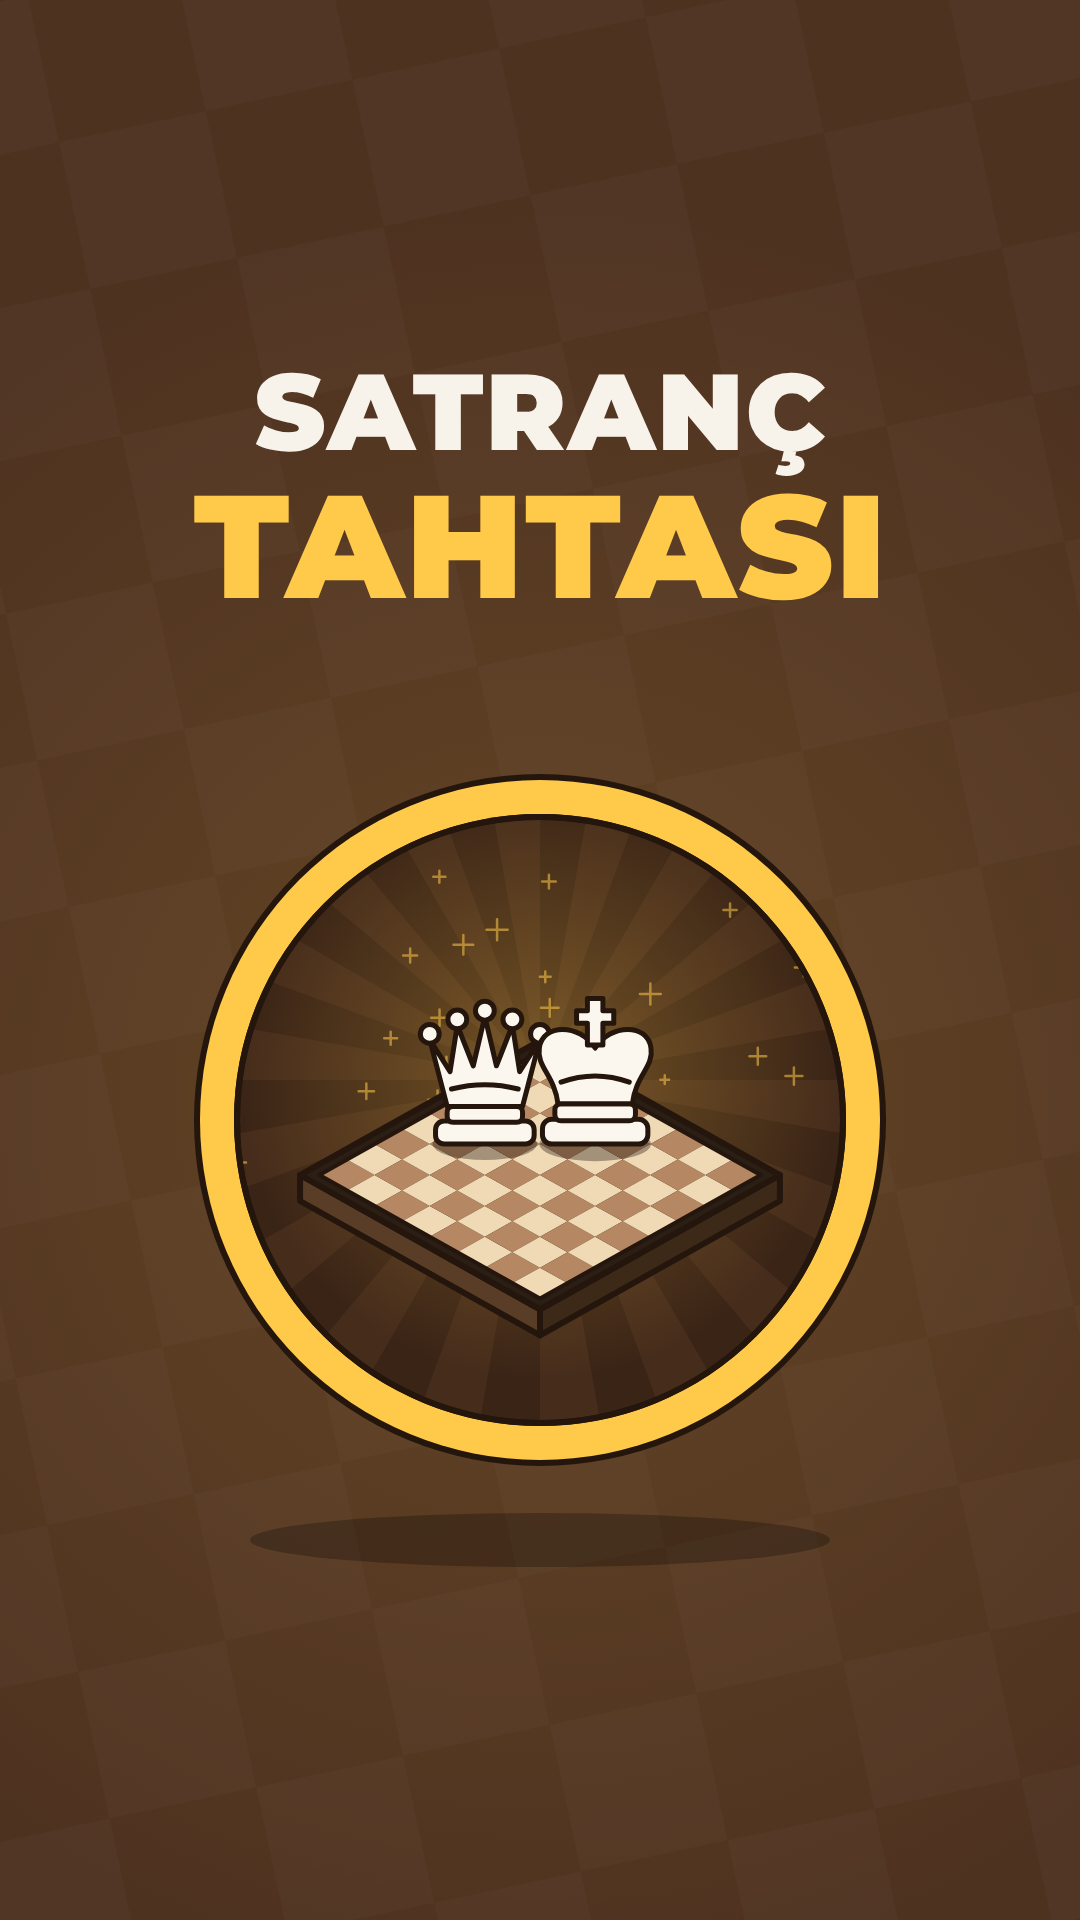
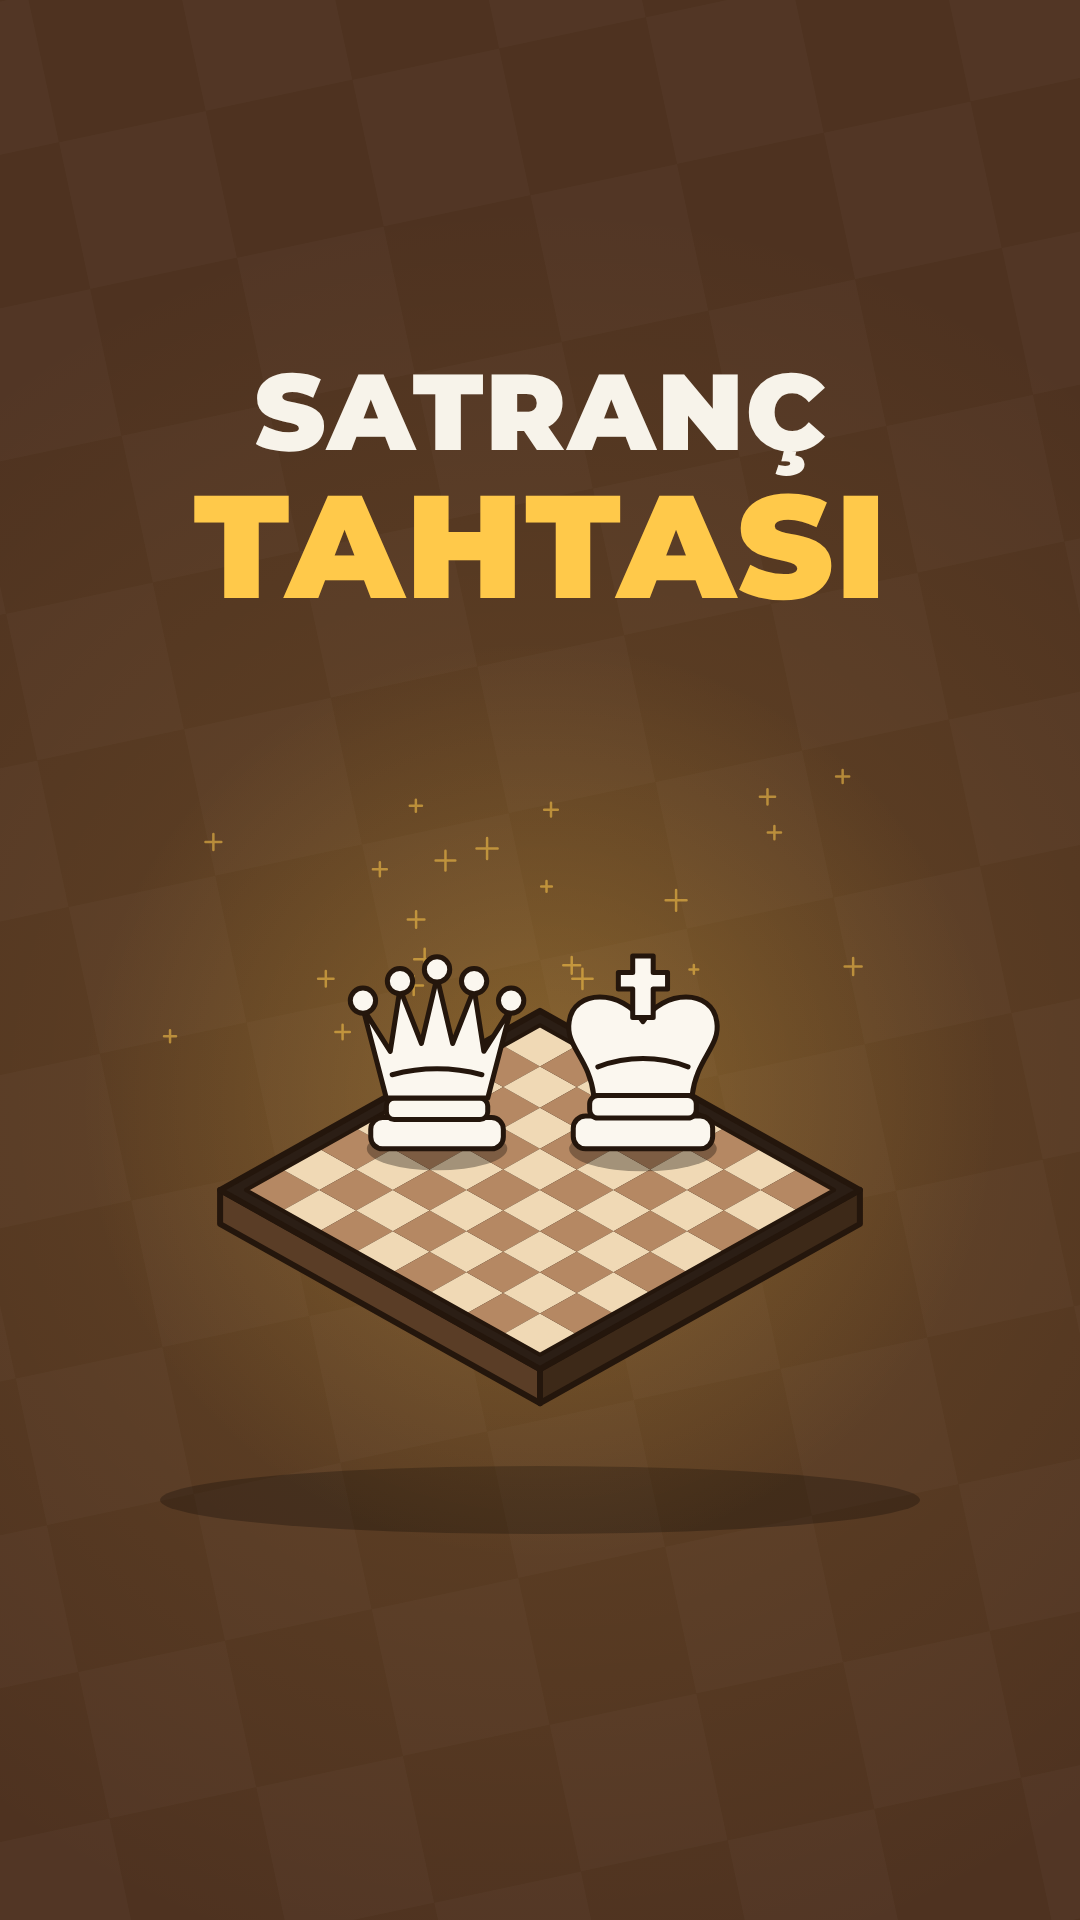
Satranç cover: free-standing board, no medallion
Claude-Session: https://claude.ai/code/session_01BVFJ2P3WWWC1NSuwcSP133

Changed region(s): [[0.1528, 0.4062, 0.825, 0.8125]]

diff --git a/satranc/cover/cover.html b/satranc/cover/cover.html
@@ -9,8 +9,8 @@
 <body>
 <canvas id="c" width="1080" height="1920"></canvas>
 <script>
-// 9:16 cover in a flat, outlined illustration style: title block, gold medallion with a
-// teal sunburst, and an isometric chessboard with a king and a queen in the middle.
+// 9:16 cover in a flat, outlined illustration style: title block over a free-standing
+// isometric chessboard with a king and a queen, in the video's colours on the logo's brown.
 (async function () {
   await Promise.all(['500 40px Montserrat', '700 40px Montserrat', '800 40px Montserrat', '900 40px Montserrat']
     .map(f => document.fonts.load(f, 'SATRANÇ TAHTASI İ')));
@@ -18,7 +18,7 @@
   // palette taken from the video (anim/scene.js)
   // background = the logo's brown (#4E3220); text, ring, board and pieces keep the video's colours
   const C = { bg: '#4E3220', white: '#F7F3EA', gold: '#FFC94A', ink: '#24160c',
-    disc: '#3a2416', ray: '#462c1b', light: '#F0D9B5', dark: '#B58863', frame: '#2b1e15', side: '#5a3d26', sideDark: '#3d2918' };
+    light: '#F0D9B5', dark: '#B58863', frame: '#2b1e15', side: '#5a3d26', sideDark: '#3d2918' };
   const ctx = document.getElementById('c').getContext('2d');
   let seed = 7;
   const rnd = () => ((seed = (seed * 16807) % 2147483647) / 2147483647);
@@ -46,40 +46,23 @@
   text('SATRANÇ', W / 2, 450, fit('SATRANÇ', 900, 108, 760, 2), 900, C.white, 2);
   text('TAHTASI', W / 2, 598, fit('TAHTASI', 900, 146, 820, 2), 900, C.gold, 2);
 
-  // medallion
-  const MX = W / 2, MY = 1120, R = 340, RI = 300;
+  // free-standing board: soft ground shadow, warm glow and a few gold sparkles around it
+  const MX = W / 2, MY = 1120;
   ctx.fillStyle = 'rgba(0,0,0,0.25)';
-  ctx.beginPath(); ctx.ellipse(MX, 1540, 290, 27, 0, 0, Math.PI * 2); ctx.fill();
-  ctx.beginPath(); ctx.arc(MX, MY, R + 6, 0, Math.PI * 2); ctx.fillStyle = C.ink; ctx.fill();
-  ctx.beginPath(); ctx.arc(MX, MY, R, 0, Math.PI * 2); ctx.fillStyle = C.gold; ctx.fill();
-  ctx.beginPath(); ctx.arc(MX, MY, RI + 6, 0, Math.PI * 2); ctx.fillStyle = C.ink; ctx.fill();
-
-  ctx.save();
-  ctx.beginPath(); ctx.arc(MX, MY, RI, 0, Math.PI * 2); ctx.clip();
-  ctx.fillStyle = C.disc; ctx.fillRect(MX - RI, MY - RI, 2 * RI, 2 * RI);
-  ctx.fillStyle = C.ray;
-  for (let i = 0; i < 18; i++) {
-    const a0 = (i / 18) * Math.PI * 2, a1 = a0 + Math.PI / 18;
-    ctx.beginPath(); ctx.moveTo(MX, MY - 40);
-    ctx.lineTo(MX + Math.cos(a0) * 600, MY - 40 + Math.sin(a0) * 600);
-    ctx.lineTo(MX + Math.cos(a1) * 600, MY - 40 + Math.sin(a1) * 600); ctx.closePath(); ctx.fill();
-  }
-  // small sparkles in place of the reference's rain
-  // warm glow behind the board, like the video's centre light
-  const dg = ctx.createRadialGradient(MX, MY - 40, 20, MX, MY - 40, RI);
-  dg.addColorStop(0, 'rgba(255,201,74,0.28)'); dg.addColorStop(1, 'rgba(255,201,74,0)');
-  ctx.fillStyle = dg; ctx.fillRect(MX - RI, MY - RI, 2 * RI, 2 * RI);
-  ctx.strokeStyle = 'rgba(255,201,74,0.55)'; ctx.lineCap = 'round';
-  for (let i = 0; i < 26; i++) {
-    const x = MX - RI + rnd() * 2 * RI, y = MY - RI + rnd() * 2 * RI * 0.62, s = 4 + rnd() * 7;
-    ctx.lineWidth = 2.5;
+  ctx.beginPath(); ctx.ellipse(MX, 1500, 380, 34, 0, 0, Math.PI * 2); ctx.fill();
+  const dg = ctx.createRadialGradient(MX, MY - 20, 20, MX, MY - 20, 460);
+  dg.addColorStop(0, 'rgba(255,201,74,0.22)'); dg.addColorStop(1, 'rgba(255,201,74,0)');
+  ctx.fillStyle = dg; ctx.fillRect(0, MY - 480, W, 960);
+  ctx.strokeStyle = 'rgba(255,201,74,0.55)'; ctx.lineCap = 'round'; ctx.lineWidth = 2.5;
+  for (let i = 0; i < 22; i++) {
+    const x = 170 + rnd() * 740, y = 760 + rnd() * 300, s = 4 + rnd() * 7;
     ctx.beginPath(); ctx.moveTo(x - s, y); ctx.lineTo(x + s, y); ctx.moveTo(x, y - s); ctx.lineTo(x, y + s); ctx.stroke();
   }
 
   // isometric board: top face at (BXc, BYc); thickness drawn as two side faces
-  const BXc = MX, BYc = MY + 55, S = 39, N = 8, SQ = 0.56;
+  const BXc = MX, BYc = MY + 70, S = 52, N = 8, SQ = 0.56;
   const iso = (u, v) => [BXc + (u - v) * S * Math.SQRT1_2, BYc + (u + v) * S * Math.SQRT1_2 * SQ];
-  const half = N / 2 + 0.35, TH = 26;
+  const half = N / 2 + 0.35, TH = 34;
   const P = [iso(-half, -half), iso(half, -half), iso(half, half), iso(-half, half)];
   const poly = (pts, fill) => {
     ctx.beginPath(); pts.forEach(([x, y], i) => (i ? ctx.lineTo(x, y) : ctx.moveTo(x, y))); ctx.closePath();
@@ -130,13 +113,10 @@
     ctx.restore();
   }
   // queen on d-file, king on e-file, both on the back half so the squares stay visible
-  const [qx, qy] = iso(-2.0, 0.0), [kx, ky] = iso(0.0, -2.0);
-  queen(qx, qy, 1.45, '#fbf7ef');
-  king(kx, ky, 1.55, '#fbf7ef');
-  ctx.restore();
+  const [qx, qy] = iso(-2.4, 0.4), [kx, ky] = iso(0.4, -2.4);
+  queen(qx, qy, 1.95, '#fbf7ef');
+  king(kx, ky, 2.05, '#fbf7ef');
 
-  // redraw the inner ring outline over the clipped art
-  ctx.beginPath(); ctx.arc(MX, MY, RI + 3, 0, Math.PI * 2); ctx.strokeStyle = C.ink; ctx.lineWidth = 6; ctx.stroke();
   window.coverReady = true;
 })();
 </script>
